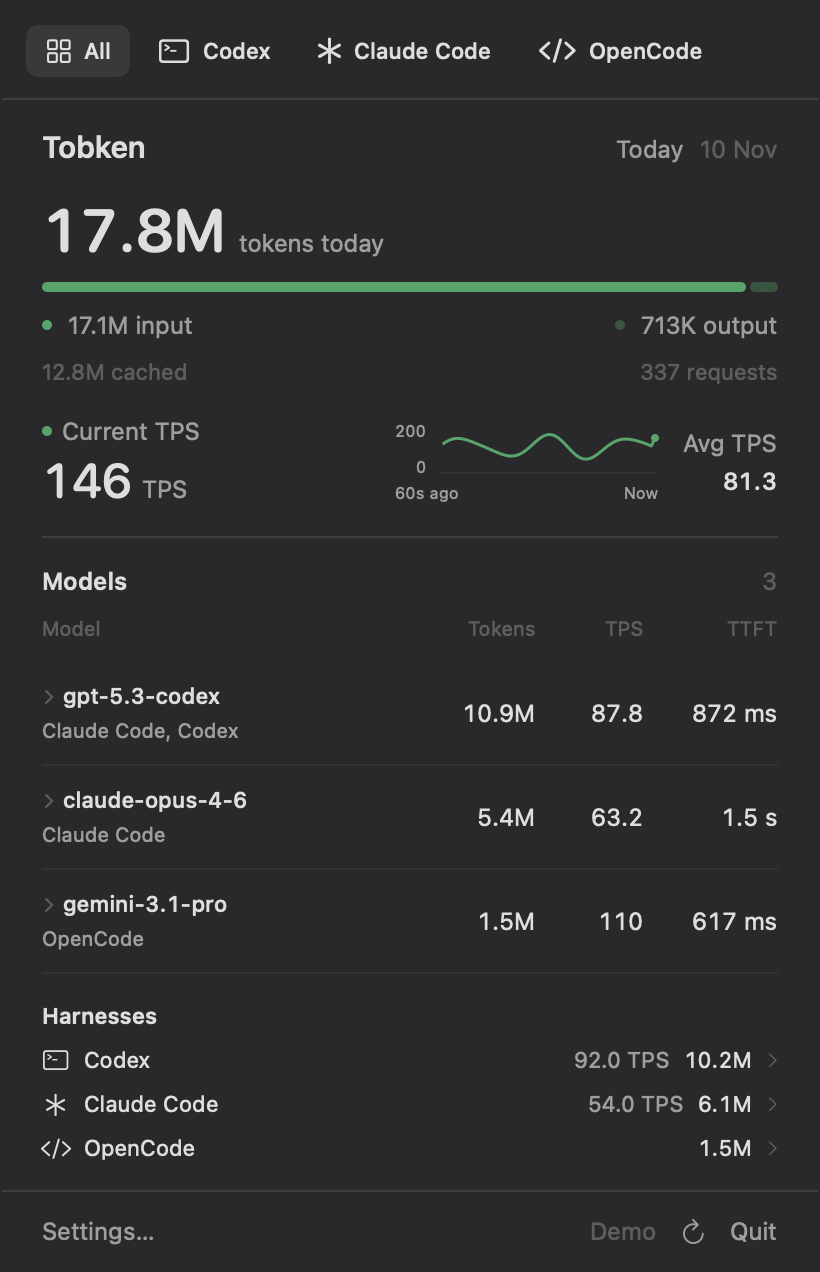
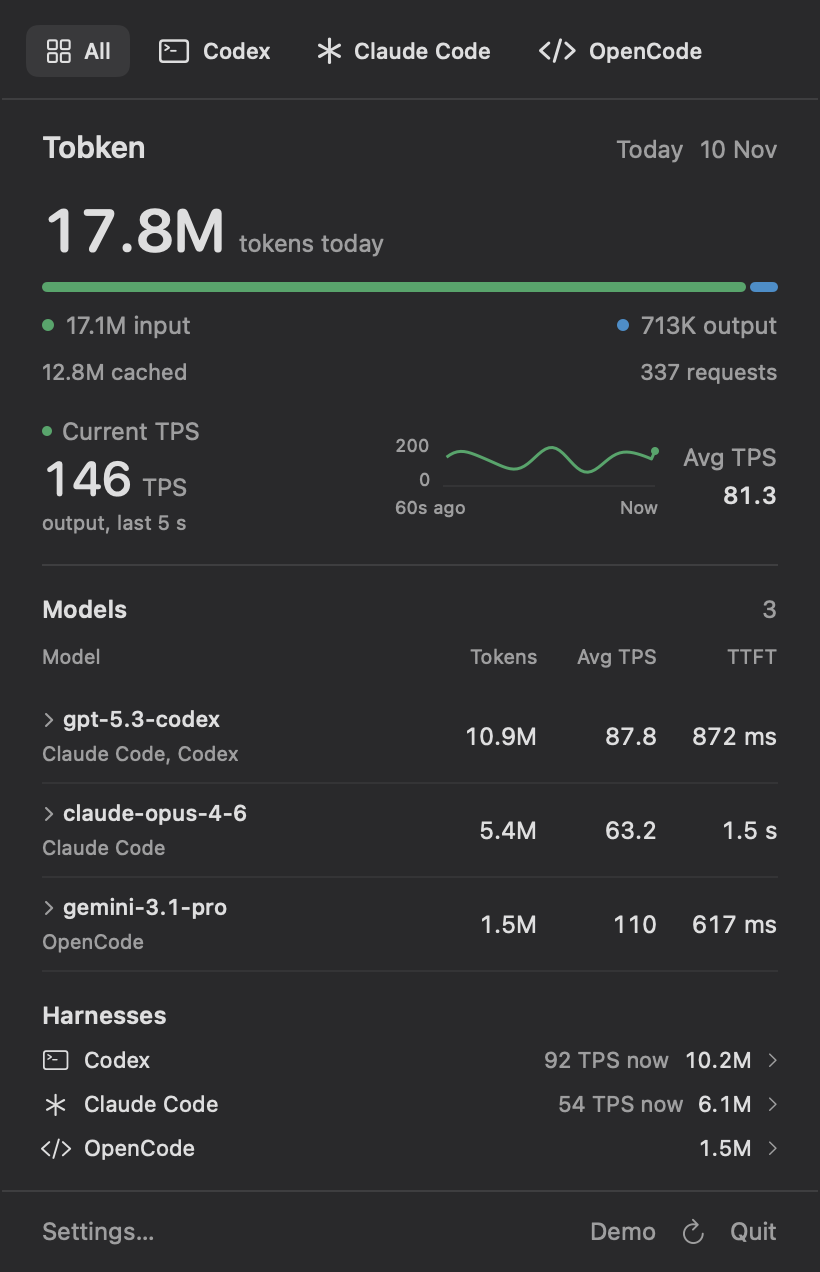
docs: rewrite agent guide and refresh user docs
AGENTS.md is reorganised into a repo map, commands, metric
invariants, resource rules, UI rules, vendoring rules and a list of
things to keep in sync. The commit-message rule is removed; commit
style is a personal preference, not a project fact.

The README covers launch at login, the right-click menu, the
per-harness graph, the renamed Avg TPS label, the universal build
and which upstream features are excluded. Verification notes record
the 26-test run, the side-by-side resource comparison (no change
claimed) and the smaller binary. Screenshots and the smoke-test
report are regenerated, and research/ is marked as historical notes.

diff --git a/AGENTS.md b/AGENTS.md
@@ -1,28 +1,78 @@
-# Working on Tobken
+# Tobken
 
-Use Conventional Commits: `type(scope): lowercase imperative summary`.
-Keep subjects around 72 characters; wrap nontrivial bodies around 72 columns.
+Native macOS menu bar app (Swift 6, macOS 14+) showing tokens today, current
+TPS and TTFT, read from local coding-tool logs. Nothing is uploaded; there is no
+proxy, login, telemetry or listener.
 
-Tobken is a native macOS menu bar app. Product labels use TPS, TTFT, and tokens
-today. TPS always counts output; input/cache must never increase it. Preserve
-unknown and estimated readings separately from zero. Filters change the open
-menu, while the status item always shows the global total.
-Display TPS and TTFT without `~` prefixes; explain approximations in tooltips.
-Current TPS counts newly observed output usage in the last five seconds / five,
-including quiet seconds. Never substitute historical request speeds for new
-output. Completion-only logs may produce bursts; describe this in tooltips.
-Request averages include within-request waits and exclude idle between requests.
+## Layout
 
-Resource use is a product requirement. Stop live refresh timers when idle, cap
-active publishing at once per second, and use incremental file notifications.
-Avoid redrawing unchanged status text or retaining closed SwiftUI views. Measure
-release CPU and physical footprint before claiming an improvement.
+| Path | Role |
+| --- | --- |
+| `Sources/Tobken/` | AppKit/SwiftUI app: `Tobken.swift` (entry, `AppController`, status item, popover), `AppModel.swift`, `MenuView.swift`, `TPSChart.swift`, `SettingsView.swift`, `SmokeTest.swift`, `PreviewRenderer.swift` |
+| `Sources/TobkenCore/` | UI-free logic: `Dashboard` (derived values, filters), `MetricFormat`, `TPSHistory` (graph readings), `Demo` (synthetic data), `Verification` |
+| `Vendor/AgentSpeed/` | Pinned upstream collector (`LiveMonitor`, `SpeedEngine`, `DayLedger`, parsers). Unused upstream features are excluded in `Package.swift` |
+| `Vendor/CodexBar/` | License/provenance for `UsageMenuCardLayout.swift` only |
+| `Tests/TobkenTests/` | Swift Testing suites |
 
-`Vendor/AgentSpeed` is pinned source, with local changes recorded in its
-`UPSTREAM.md`. Extend its existing request ledger rather than rescanning histories
-for UI updates. Preserve licenses when reusing upstream code.
+Put display logic in `TobkenCore` so it can be unit tested; keep `Sources/Tobken`
+to views and AppKit wiring.
 
-Build with `Scripts/build.sh`; test with `Scripts/test.sh`. Verify the packaged
-binary with `--verify` against synthetic data before handing it off. Use
-`--render-preview <directory>` to inspect the actual production SwiftUI view in
-light and dark appearances without reading user histories.
+## Commands
+
+```sh
+Scripts/build.sh                       # universal release app → dist/Tobken.app
+Scripts/test.sh                        # all tests; append --filter <name> for one
+dist/Tobken.app/Contents/MacOS/Tobken --verify               # headless, synthetic transcripts
+dist/Tobken.app/Contents/MacOS/Tobken --demo                 # run with synthetic data
+dist/Tobken.app/Contents/MacOS/Tobken --render-preview <dir> # menu, filtered menu, Settings; light + dark
+dist/Tobken.app/Contents/MacOS/Tobken --ui-smoke-test <dir>  # drives the real status item; needs a desktop session
+python3 Scripts/measure-resources.py BEFORE_PID AFTER_PID --seconds 10 --rounds 5
+```
+
+Before handing off: tests, build, `--verify`, and inspect `--render-preview`
+output. Run `--ui-smoke-test` when a desktop session is available; if it is not,
+say so instead of reporting it as passed. The version lives in `VERSION`.
+
+## Metric invariants
+
+- TPS counts output only; input and cache never increase it.
+- Current TPS is newly observed output usage in the last five seconds ÷ 5,
+  including quiet seconds. Never substitute historical request speeds for new
+  output. Completion-only logs produce bursts; say so in tooltips.
+- Avg TPS is output ÷ summed request durations: includes TTFT and waits within
+  a request, excludes idle time between requests.
+- Unknown (`nil`, shown `—`) and estimated readings stay distinct from zero.
+- The status item always shows the global total; the harness filter changes
+  only the open menu, and never the global graph history.
+
+## Resource rules
+
+Resource use is a product requirement.
+
+- No timers while idle with the menu closed. The open-menu graph timer stops
+  once the graph is flat.
+- Publish at most once per second; use incremental file notifications.
+- Don't redraw unchanged status text; release closed menu and Settings views.
+- Measure release CPU and physical footprint (`measure-resources.py`, both
+  builds side by side) before claiming an improvement or a regression fix.
+
+## UI rules
+
+- No `~` prefixes on TPS or TTFT; explain approximations in tooltips.
+- Visible labels say which TPS is meant ("Current TPS", "Avg TPS", "TPS now").
+- Check light and dark previews after any visible change.
+
+## Vendored code
+
+- `Vendor/AgentSpeed` is pinned source. Record every local change and every
+  build exclusion in `Vendor/AgentSpeed/UPSTREAM.md`.
+- Extend the existing request ledger (`DayLedger`, `ActivityMetrics`) rather
+  than rescanning histories for UI updates.
+- Preserve licenses when reusing upstream code; `Scripts/build.sh` bundles them.
+
+## Keep in sync
+
+README "What the numbers mean", tooltips in `MenuView`/`TPSChart`, and the
+Settings copy describe the same definitions; change them together. Regenerate
+`docs/tobken-light.png` and `docs/tobken-dark.png` with `--render-preview` after
+visible UI changes.

diff --git a/README.md b/README.md
@@ -2,13 +2,15 @@
 
 A native macOS menu bar app for tokens today, TPS, and TTFT across your local
 coding tools. The status bar always shows the global total. Click it for model
-and harness breakdowns; select a harness to filter the menu.
+and harness breakdowns; select a harness to filter the menu. Right-click for
+Settings, Rescan Logs and Quit.
 
 ![Tobken in dark mode](docs/tobken-dark.png)
 
 ## Run
 
 Requires macOS 14 or later and a Swift 6 toolchain (Xcode or Command Line Tools).
+The build is universal (Apple silicon and Intel); the version comes from `VERSION`.
 
 ```sh
 Scripts/build.sh
@@ -16,15 +18,17 @@ open dist/Tobken.app
 ```
 
 The app has no Dock icon. Look for the token count in the menu bar. It reads
-supported logs automatically; Settings lets you add other transcript locations.
-To launch at login, add `Tobken.app` to macOS System Settings → General → Login
-Items. The local build is ad hoc signed.
+supported logs automatically; Settings lets you add other transcript locations
+and turn on **Open Tobken at login**. Move the app to `/Applications` first so
+the login item points at a stable path. The local build is ad hoc signed, so
+macOS may ask you to approve the login item in System Settings → General →
+Login Items.
 
 ```sh
 Scripts/test.sh
 dist/Tobken.app/Contents/MacOS/Tobken --verify
 dist/Tobken.app/Contents/MacOS/Tobken --demo
-dist/Tobken.app/Contents/MacOS/Tobken --render-preview /tmp/tobken-preview
+dist/Tobken.app/Contents/MacOS/Tobken --render-preview /tmp/tobken-preview  # menu, filtered menu, Settings
 dist/Tobken.app/Contents/MacOS/Tobken --ui-smoke-test /tmp/tobken-ui-smoke
 ```
 
@@ -46,13 +50,15 @@ The UI smoke test requires an active macOS desktop session and uses demo data.
   duplicate records and finalizing an unchanged usage count do not add output.
   Tools that report usage only at completion produce bursts; this measures
   observed log throughput, not individual token emission or predicted speed.
-  A dash means the monitor is starting or has no supported sources.
+  A dash means the monitor is starting or has no supported sources. The menu
+  bar shows it as a whole number; harness rows label it "TPS now".
   The graph records that same TPS reading over 60 seconds, with the latest
   reading at the right-hand dot. It keeps past readings fixed and leaves gaps
   for unavailable readings. The labeled scale stays fixed during activity,
   grows for new peaks, and resets after a full idle minute. It fills as the
-  app observes activity; it does not reconstruct a history on startup.
-- **TPS in model rows / Avg TPS:** today's output divided by summed timed request
+  app observes activity; it does not reconstruct a history on startup. With a
+  harness selected, the graph shows that harness's own readings.
+- **Avg TPS** (summary and model rows): today's output divided by summed timed request
   durations, including TTFT. It is weighted by duration, not an average of the
   displayed per-request rates. This includes pauses within requests and excludes
   idle time between them. Intervals under 500 ms are widened to 500 ms;
@@ -76,7 +82,10 @@ Recent files have at most 32 transcript watchers plus OpenCode database/WAL
 watchers. Unchanged menu-bar text is not redrawn. The menu and Settings views
 are created when opened and released when closed; no hidden graph animates.
 The graph fills known quiet intervals with zeros when activity resumes or the
-menu opens, without an idle drawing timer.
+menu opens. While the menu is open after output stops, a one-second timer keeps
+the graph moving until it is flat; nothing ticks with the menu closed. While
+output is active the menu bar item only grows, so neighbouring items do not
+shift each second.
 
 See [resource measurements](docs/resource-use.md) for measured CPU/memory costs
 and the repeatable sampling command. Startup still reads today's history;
@@ -92,7 +101,8 @@ warnings are shown in the menu; hover for details.
 
 ## Code and provenance
 
-- `Sources/Tobken`: AppKit status item and SwiftUI dropdown/settings.
+- `Sources/Tobken`: AppKit status item and SwiftUI dropdown/settings, plus the
+  UI smoke test and preview renderer.
 - `Sources/TobkenCore`: presentation, grouping, formatting, synthetic fixtures,
   and an end-to-end verifier.
 - `Vendor/AgentSpeed`: pinned MIT collector, request ledger, and live-rate
@@ -103,15 +113,18 @@ warnings are shown in the menu; hover for details.
   application, not a full CodexBar fork.
 
 The package uses no remote Swift dependencies. App packaging includes upstream
-licenses. The full collector is vendored to keep source compatibility; its
-unused networking and reporting facilities are not started by Tobken.
+licenses. Upstream features Tobken never uses (LAN sharing, profiles,
+characters, price fetchers, the self-updater) are excluded from the build; the
+remaining reporting and remote code is compiled because the engine references
+its types, but Tobken never starts it. See
+[provenance](Vendor/AgentSpeed/UPSTREAM.md) for the exact list.
 
 ## Investigation
 
 - [Full investigation](research/reports/investigation.md)
 - [Pinned source inventory](research/reports/source-evidence.json)
 - [Research verification](research/reports/verification.md)
-- [Initial app verification](docs/verification.md)
+- [App verification](docs/verification.md)
 
 Reference checkouts live under the ignored `research/upstream/` directory.
 All needed application source is included in `Vendor/`; those checkouts are not

diff --git a/docs/verification.md b/docs/verification.md
@@ -1,4 +1,4 @@
-# Initial app verification
+# App verification
 
 Verified locally on 2026-11-10, macOS arm64, with Swift 6.3.1.
 
@@ -114,3 +114,28 @@ and the dropdown reopens successfully.
 See [resource measurements](resource-use.md) for release CPU, footprint, run
 conditions, raw samples and the sampling script. These are quiet-workload
 measurements, not a claim about peak startup or sustained output workloads.
+
+## Polish pass
+
+Verified on 2026-11-10, macOS arm64, Swift 6.3.1.
+
+`Scripts/test.sh`: **26 tests passed** (five new: unit-boundary token and rate
+formatting, whole-number rates, harness-filter fallback and duration-weighted
+Avg TPS). The universal release (`x86_64 arm64`) passed `--verify`,
+`--ui-smoke-test` and strict code-signature verification. Light and dark
+previews of the menu, the filtered menu and Settings were inspected.
+
+The smoke test now derives its expectations from the demo snapshot and also
+checks that a filter graphs the selected harness's readings and that reopening
+the menu resets the filter. Its result is in [ui-smoke.json](ui-smoke.json).
+
+The scrollbar preference moved to the volatile argument domain, so Tobken no
+longer writes `AppleShowScrollBars` to its preferences file and removes any
+value an earlier version wrote. The smoke test's overlay-scroller check still
+passes.
+
+Quiet monitoring cost was compared against `main` with both release builds
+running side by side (five ten-second windows, host load average 10–16): CPU
+median 0.015% before and 0.016% after, physical footprint 41.6 and 42.2 MiB.
+No change is claimed. Excluding unused upstream features reduced the arm64
+slice of the binary from 11.77 MB to 9.86 MB.

diff --git a/docs/resource-use.md b/docs/resource-use.md
@@ -68,8 +68,9 @@ process identity, and prints per-window samples plus median/min/max. It creates
 no polling or telemetry inside Tobken. Profile in a separate run so sampling
 overhead does not contaminate the reported CPU counters.
 
-Correctness is checked separately: 21 tests pass, including real open-writer
-appends while idle, rate-limited publishing and atomic file replacement. The
+Correctness is checked separately: the test suite (26 tests at the latest run)
+covers real open-writer appends while idle, rate-limited publishing and atomic
+file replacement. The
 packaged `--verify` proves accounting through seed/append/restart and observes
 **0 → 80 → 0 TPS** after 400 new output tokens. The native UI test checks menu
 opening, closing, reopening and release of closed views. Performance does not

diff --git a/research/README.md b/research/README.md
@@ -1,0 +1,5 @@
+# Research notes
+
+Historical investigation notes from building the first version. They are kept
+for provenance and are not maintained; `README.md`, `AGENTS.md` and `docs/`
+describe the current app.
